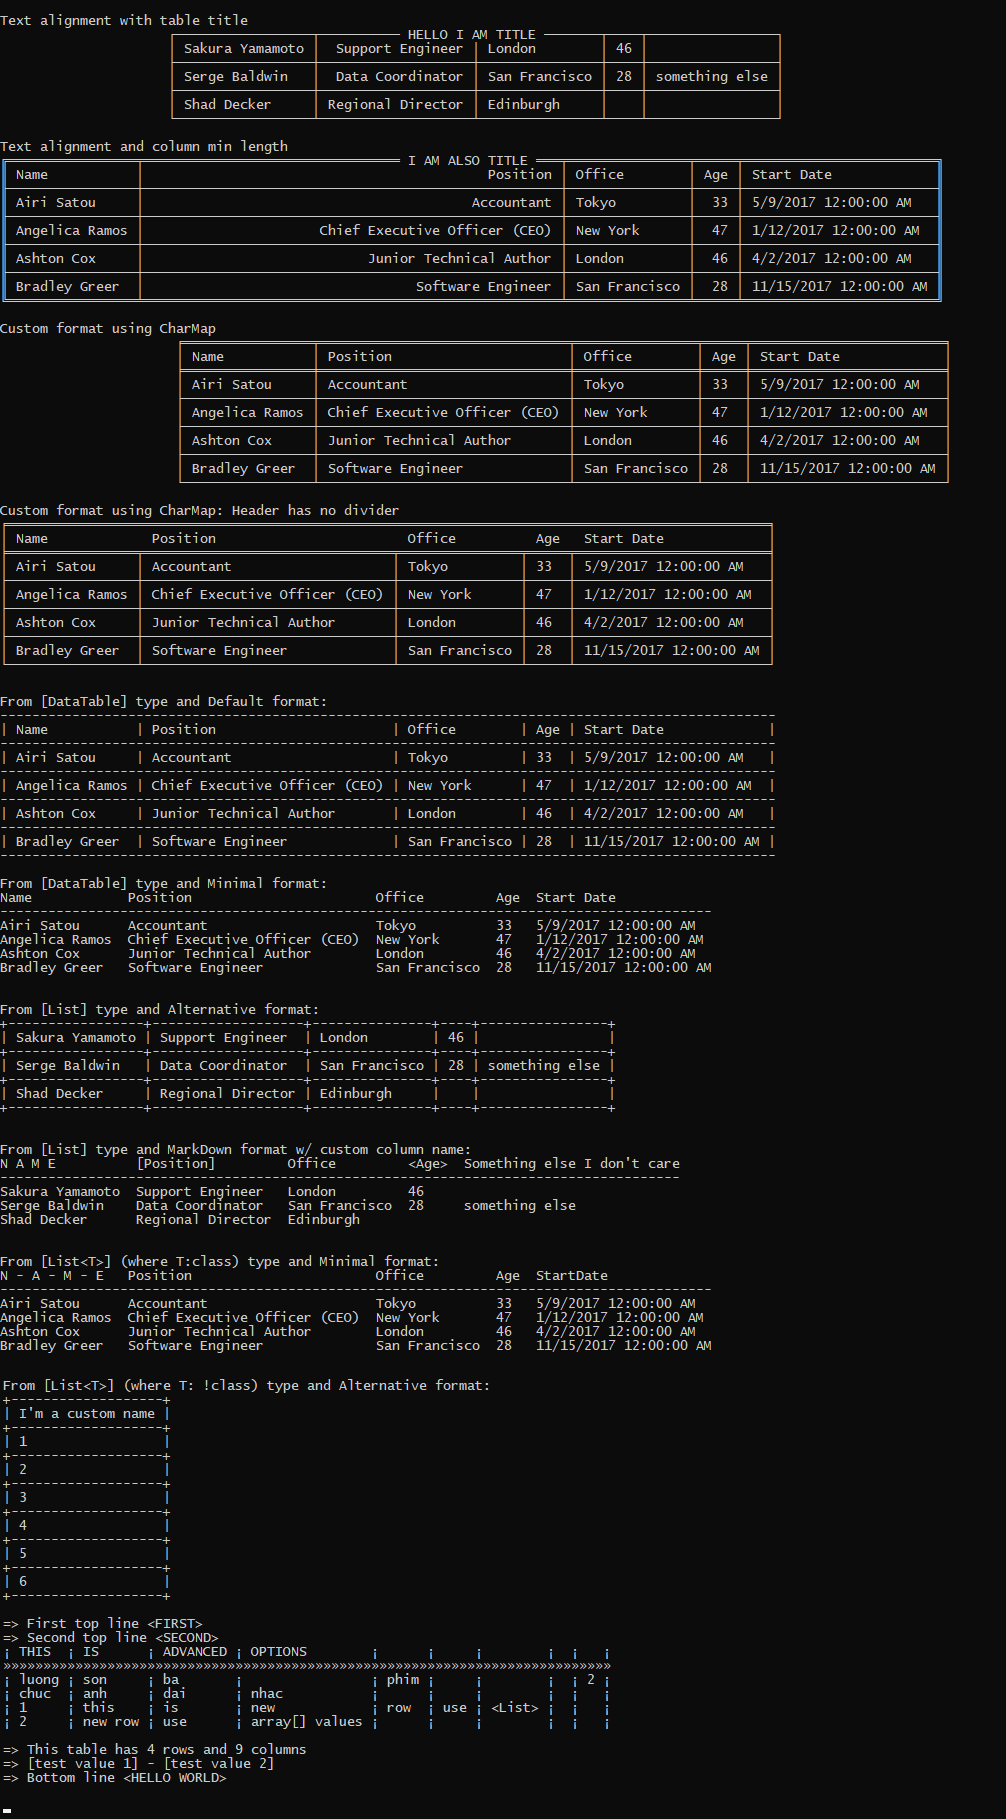
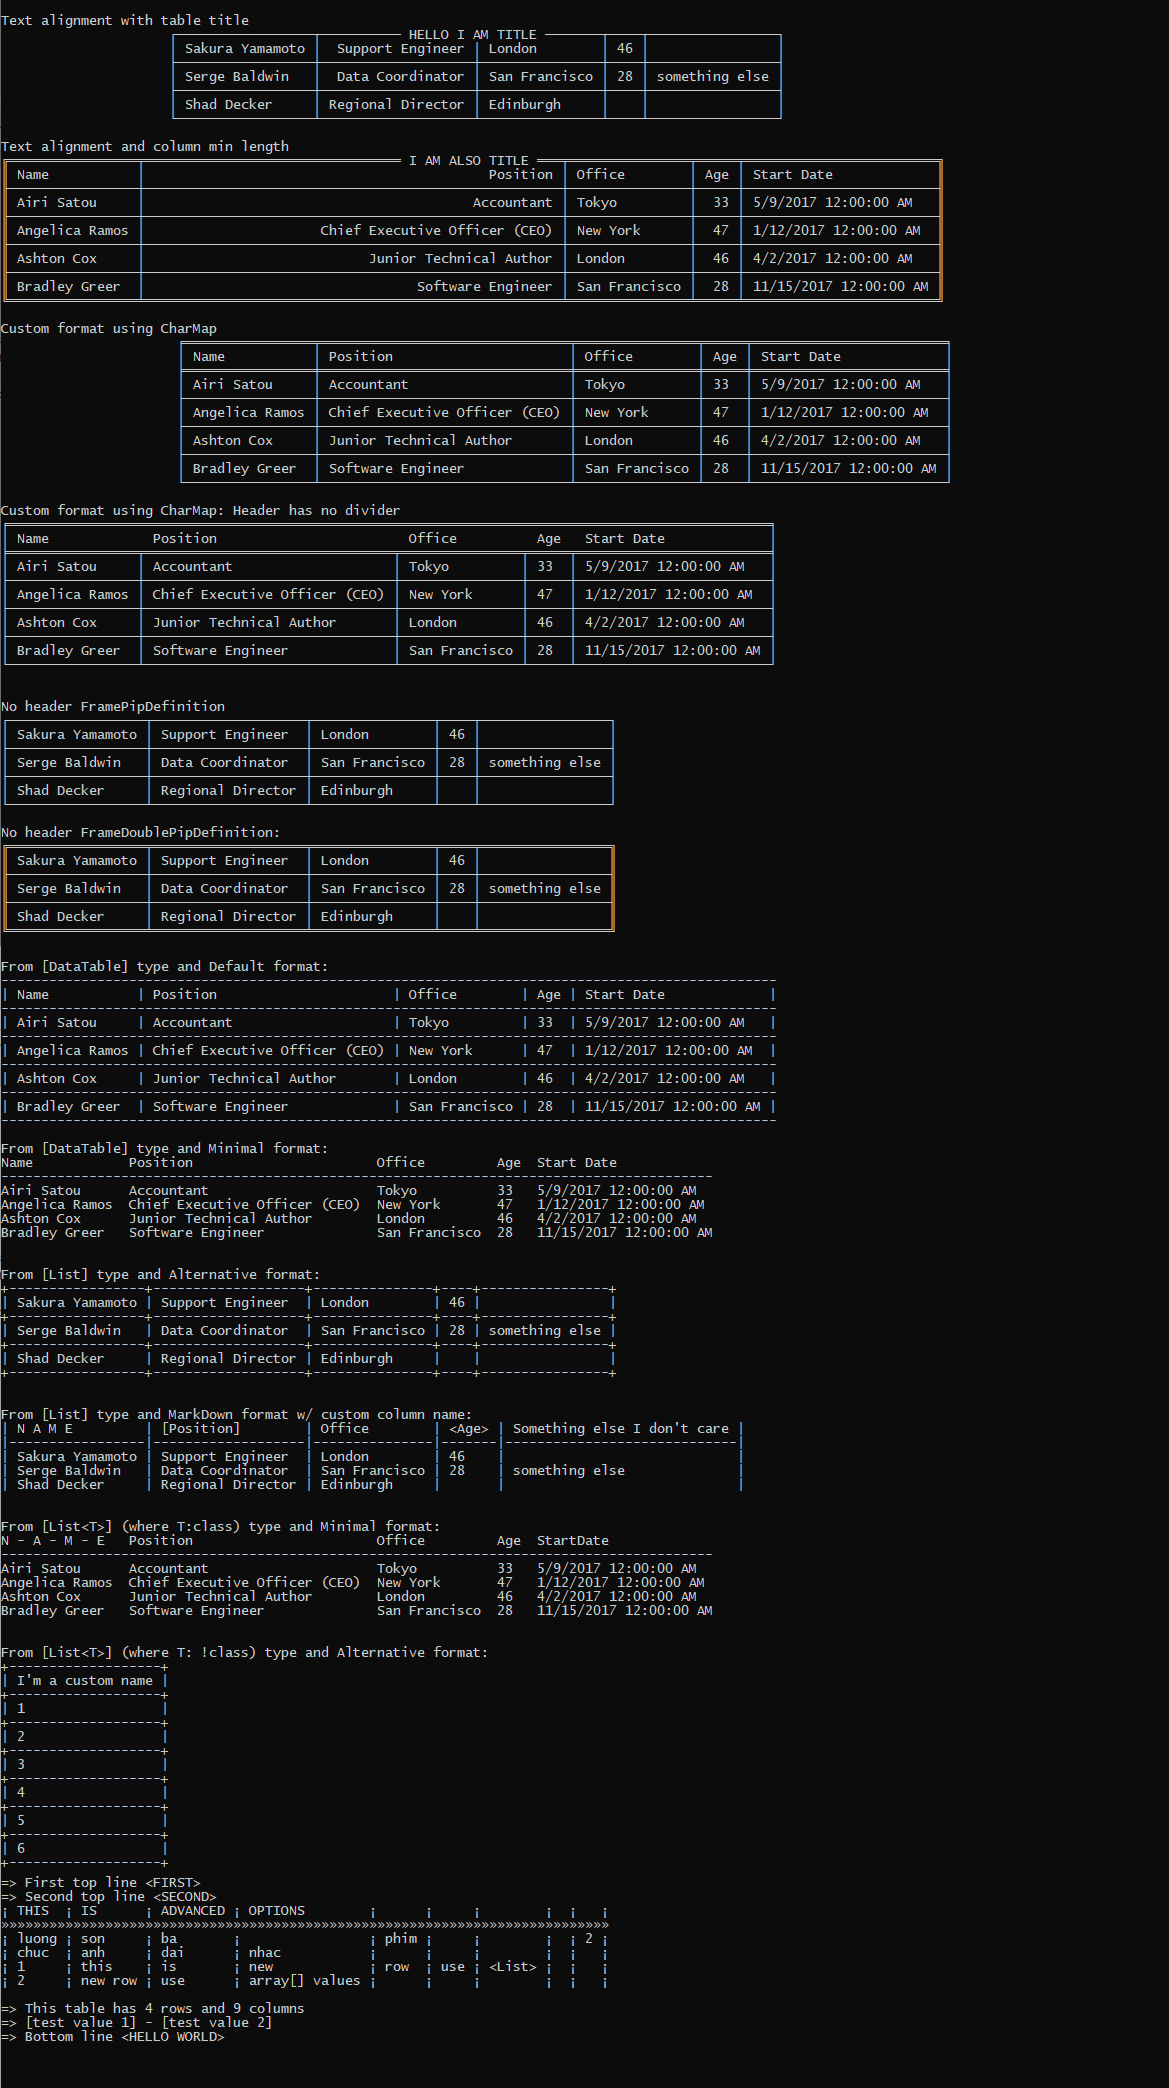
- update readme - fix markdown & minimal format - fix table title bug

Changed region(s): [[0.0, 0.0, 0.9553, 0.9852]]

diff --git a/Src/ConsoleTableExt/ConsoleTableBuilderExtensions.cs b/Src/ConsoleTableExt/ConsoleTableBuilderExtensions.cs
@@ -249,7 +249,7 @@ namespace ConsoleTableExt
                     case ConsoleTableBuilderFormat.Default:
                         return CreateTableForDefaultFormat(builder);
                     case ConsoleTableBuilderFormat.Minimal:
-                        return CreateTableForMarkdownFormat(builder);
+                        return CreateTableForMinimalFormat(builder);
                     case ConsoleTableBuilderFormat.Alternative:
                         return CreateTableForAlternativeFormat(builder);
                     case ConsoleTableBuilderFormat.MarkDown:
@@ -422,9 +422,7 @@ namespace ConsoleTableExt
 
             if (!string.IsNullOrEmpty(builder.TableTitle) && builder.TableTitle.Trim().Length > 0) // !IsNullOrWhiteSpace
             {
-                var startPoint = (beginTableFormat.Length - builder.TableTitle.Length) / 2;
-                //var newBeginTableFormat = beginTableFormat.Substring(0, 1);
-                var newBeginTableFormat = beginTableFormat.Substring(0, startPoint - 1) + ' ';
+                var newBeginTableFormat = beginTableFormat.Substring(0, (beginTableFormat.Length - builder.TableTitle.Length) / 2 - 1) + ' ';
                 newBeginTableFormat += builder.TableTitle + ' ';
                 newBeginTableFormat += beginTableFormat.Substring(newBeginTableFormat.Length, beginTableFormat.Length - newBeginTableFormat.Length);
 
@@ -475,6 +473,34 @@ namespace ConsoleTableExt
                     beginHeaderFormat = filledHeaderMap[HeaderCharMapPositions.TopLeft] + beginHeaderFormat.Substring(1);
                     beginHeaderFormat = beginHeaderFormat.Substring(0, beginHeaderFormat.Length - 1) + filledHeaderMap[HeaderCharMapPositions.TopRight];
                     beginHeaderFormat = beginHeaderFormat.Replace(' ', filledHeaderMap[HeaderCharMapPositions.BorderXTop]).Replace(delim, filledHeaderMap[HeaderCharMapPositions.TopCenter]);
+
+                    if (builder.TableTitle.Length > beginHeaderFormat.Length)
+                    {
+                        if (beginHeaderFormat.Length < 10)
+                        {
+                            builder.TableTitle = builder.TableTitle.Substring(0, beginHeaderFormat.Length - 4);
+                        }
+                        else
+                        {
+                            if (beginHeaderFormat.Length < 20)
+                            {
+                                builder.TableTitle = builder.TableTitle.Substring(0, beginHeaderFormat.Length - 7);
+                            }
+                            else
+                            {
+                                builder.TableTitle = builder.TableTitle.Substring(0, beginHeaderFormat.Length - 7) + "...";
+                            }
+                        }
+                    }
+
+                    if (!string.IsNullOrEmpty(builder.TableTitle) && builder.TableTitle.Trim().Length > 0) // !IsNullOrWhiteSpace
+                    {
+                        var newBeginHeaderFormat = beginHeaderFormat.Substring(0, (beginHeaderFormat.Length - builder.TableTitle.Length) / 2 - 1) + ' ';
+                        newBeginHeaderFormat += builder.TableTitle + ' ';
+                        newBeginHeaderFormat += beginHeaderFormat.Substring(newBeginHeaderFormat.Length, beginHeaderFormat.Length - newBeginHeaderFormat.Length);
+
+                        beginHeaderFormat = newBeginHeaderFormat;
+                    }
 
                     if (beginHeaderFormat.Trim('\0').Length == 0)
                     {
@@ -595,13 +621,55 @@ namespace ConsoleTableExt
             return strBuilder;
         }
 
-        private static StringBuilder CreateTableForMarkdownFormat(ConsoleTableBuilder builder)
+        private static StringBuilder CreateTableForMinimalFormat(ConsoleTableBuilder builder)
         {
             var strBuilder = new StringBuilder();
             BuildMetaRowsFormat(builder, strBuilder, MetaRowPositions.Top);
 
             // create the string format with padding
             var format = builder.Format('\0');
+
+            if (format == string.Empty)
+            {
+                return strBuilder;
+            }
+
+            var skipFirstRow = false;
+            var columnHeaders = string.Empty;
+
+            if (builder.Column != null && builder.Column.Any() && builder.Column.Max(x => (x ?? string.Empty).ToString().Length) > 0)
+            {
+                skipFirstRow = false;
+                columnHeaders = string.Format(format, builder.Column.ToArray());
+            }
+            else
+            {
+                skipFirstRow = true;
+                columnHeaders = string.Format(format, builder.Rows.First().ToArray());
+            }
+
+            // create the divider
+            var divider = Regex.Replace(columnHeaders, @"[^|]", '-'.ToString());
+
+            strBuilder.AppendLine(columnHeaders);
+            strBuilder.AppendLine(divider);
+
+            // add each row
+            var results = builder.Rows.Skip(skipFirstRow ? 1 : 0).Select(row => string.Format(format, row.ToArray())).ToList();
+            results.ForEach(row => strBuilder.AppendLine(row));
+
+            BuildMetaRowsFormat(builder, strBuilder, MetaRowPositions.Bottom);
+
+            return strBuilder;
+        }
+
+        private static StringBuilder CreateTableForMarkdownFormat(ConsoleTableBuilder builder)
+        {
+            var strBuilder = new StringBuilder();
+            BuildMetaRowsFormat(builder, strBuilder, MetaRowPositions.Top);
+
+            // create the string format with padding
+            var format = builder.Format('|');
 
             if (format == string.Empty)
             {

diff --git a/README.md b/README.md
@@ -11,94 +11,58 @@ https://github.com/minhhungit/ConsoleTableExt/tree/master/Src/ConsoleTableApp
 <img src="https://raw.githubusercontent.com/minhhungit/ConsoleTableExt/master/wiki/Images/demo.png" style="width: 100%;" />
 
 ### How to use:
-From [DataTable] type and Default format:
-```csharp
-ConsoleTableBuilder
-   .From(GetSampleTableData())
-   .ExportAndWriteLine();
-```
-From [DataTable] type and Minimal format:
-```csharp
-ConsoleTableBuilder
-   .From(GetSampleTableData())
-   .WithFormat(ConsoleTableBuilderFormat.Minimal)
-   .ExportAndWriteLine();
-```
 
-From [List] type and Alternative format:
 ```csharp
-ConsoleTableBuilder
-   .From(GetSampleListData())
-   .WithFormat(ConsoleTableBuilderFormat.Alternative)
-   .ExportAndWriteLine();
-```
-
-From [List] type and MarkDown format w/ custom column name:
-```csharp
-ConsoleTableBuilder
-   .From(GetSampleListData())
-   .WithFormat(ConsoleTableBuilderFormat.MarkDown)
-   .WithColumn(new List<string>{ "N A M E" , "[Position]", "Office", "<Age>", "Something else I don't care"})
-   .ExportAndWriteLine();
-```
-
-Custom:
-```csharp
-var arrayBuilder = ConsoleTableBuilder.From(new List<object[]>
+var tableData = new List<List<object>>
 {
-    new object[] {"luong", "son", "ba", null, "phim", null, null, null, 2, null},
-    new object[] {"chuc", "anh", "dai", "nhac", null, null, null }
-});
-
-
-arrayBuilder
-   .AddRow(new List<object> {1, "this", "is", "new", "row", "use", "<List>", null, null, null})
-   .AddRow(new object[] {"2", "new row", "use", "array[] values", null, null})
-   .WithOptions(new ConsoleTableBuilderOption
-   {
-       MetaRowPosition = MetaRowPosition.Bottom,
-       MetaRowFormat = "\n=> This table has {3} rows and {2} columns\n=> [{0}] - [test value {1}]",
-       MetaRowParams = new object[]
-       {
-           "test value 1",
-           2,
-           AppConstants.MetaRow.COLUMN_COUNT,
-           AppConstants.MetaRow.ROW_COUNT 
-       },
-       TrimColumn = true,
-       Delimiter = "¡",
-       DividerString = "»",
-   })
-   .WithFormat(ConsoleTableBuilderFormat.MarkDown)
-   .WithColumn(new List<string> {"THIS", "IS", "ADVANCED", "OPTIONS"})
-   .ExportAndWriteLine();
-```
-Sample data:
-```csharp
-static DataTable SampleTableData()
-{
-   DataTable table = new DataTable();
-   table.Columns.Add("Name", typeof(string));
-   table.Columns.Add("Position", typeof(string));
-   table.Columns.Add("Office", typeof(string));
-   table.Columns.Add("Age", typeof(int));
-   table.Columns.Add("Start Date", typeof(DateTime));
-
-   table.Rows.Add("Airi Satou", "Accountant", "Tokyo", 33, new DateTime(2017, 05, 09));
-   table.Rows.Add("Angelica Ramos", "Chief Executive Officer (CEO)", "New York", 47, new DateTime(2017, 01, 12));
-   table.Rows.Add("Ashton Cox", "Junior Technical Author", "London", 46, new DateTime(2017, 04, 02));
-   table.Rows.Add("Bradley Greer", "Software Engineer", "San Francisco", 28, new DateTime(2017, 11, 15));
-
-   return table;
-}
-
-static List<List<object>> SampleListData = new List<List<object>>
-{
-   new List<object>{ "Sakura Yamamoto", "Support Engineer", "London", 46},
-   new List<object>{ "Serge Baldwin", "Data Coordinator", "San Francisco", 28, "something else" },
-   new List<object>{ "Shad Decker", "Regional Director", "Edinburgh"},
+    new List<object>{ "Sakura Yamamoto", "Support Engineer", "London", 46},
+    new List<object>{ "Serge Baldwin", "Data Coordinator", "San Francisco", 28, "something else" },
+    new List<object>{ "Shad Decker", "Regional Director", "Edinburgh"},
 };
+
+// Simple table
+ConsoleTableBuilder
+    .From(tableData)
+    .ExportAndWriteLine();
+
+
+// Advanced table 
+ConsoleTableBuilder
+    .From(tableData)
+    .WithTitle("CONTACTS ")
+    .WithColumn("Id", "First Name", "Sur Name")
+    .WithCharMapDefinition(new Dictionary<CharMapPositions, char> {                   
+        {CharMapPositions.BottomLeft, '=' },
+        {CharMapPositions.BottomCenter, '=' },
+        {CharMapPositions.BottomRight, '=' },
+        {CharMapPositions.BorderX, '=' },
+        {CharMapPositions.BorderY, '|' },
+        {CharMapPositions.DividerY, '|' },
+    })
+    .WithHeaderCharMapDefinition(new Dictionary<HeaderCharMapPositions, char> {
+        {HeaderCharMapPositions.TopLeft, '=' },
+        {HeaderCharMapPositions.TopCenter, '=' },
+        {HeaderCharMapPositions.TopRight, '=' },
+        {HeaderCharMapPositions.BottomLeft, '|' },
+        {HeaderCharMapPositions.BottomCenter, '-' },
+        {HeaderCharMapPositions.BottomRight, '|' },
+        {HeaderCharMapPositions.Divider, '|' },
+        {HeaderCharMapPositions.BorderXTop, '=' },
+        {HeaderCharMapPositions.BorderXBottom, '-' },
+        {HeaderCharMapPositions.BorderY, '|' },
+    })
+    .ExportAndWriteLine();
 ```
+
+Check more demo here https://github.com/minhhungit/ConsoleTableExt/blob/master/Src/ConsoleTableApp/Program.cs
+
+### Char Map Definition
+
+<img src="https://raw.githubusercontent.com/minhhungit/ConsoleTableExt/master/wiki/Images/CharMapPositions.png" style="width: 100%;" />
+
+### Header Char Map
+
+<img src="https://raw.githubusercontent.com/minhhungit/ConsoleTableExt/master/wiki/Images/HeaderCharMapPositions.png" style="width: 100%;" />
 
 ### Inspired by 
 - <a href="https://github.com/khalidabuhakmeh/ConsoleTables">khalidabuhakmeh/ConsoleTables</a>
